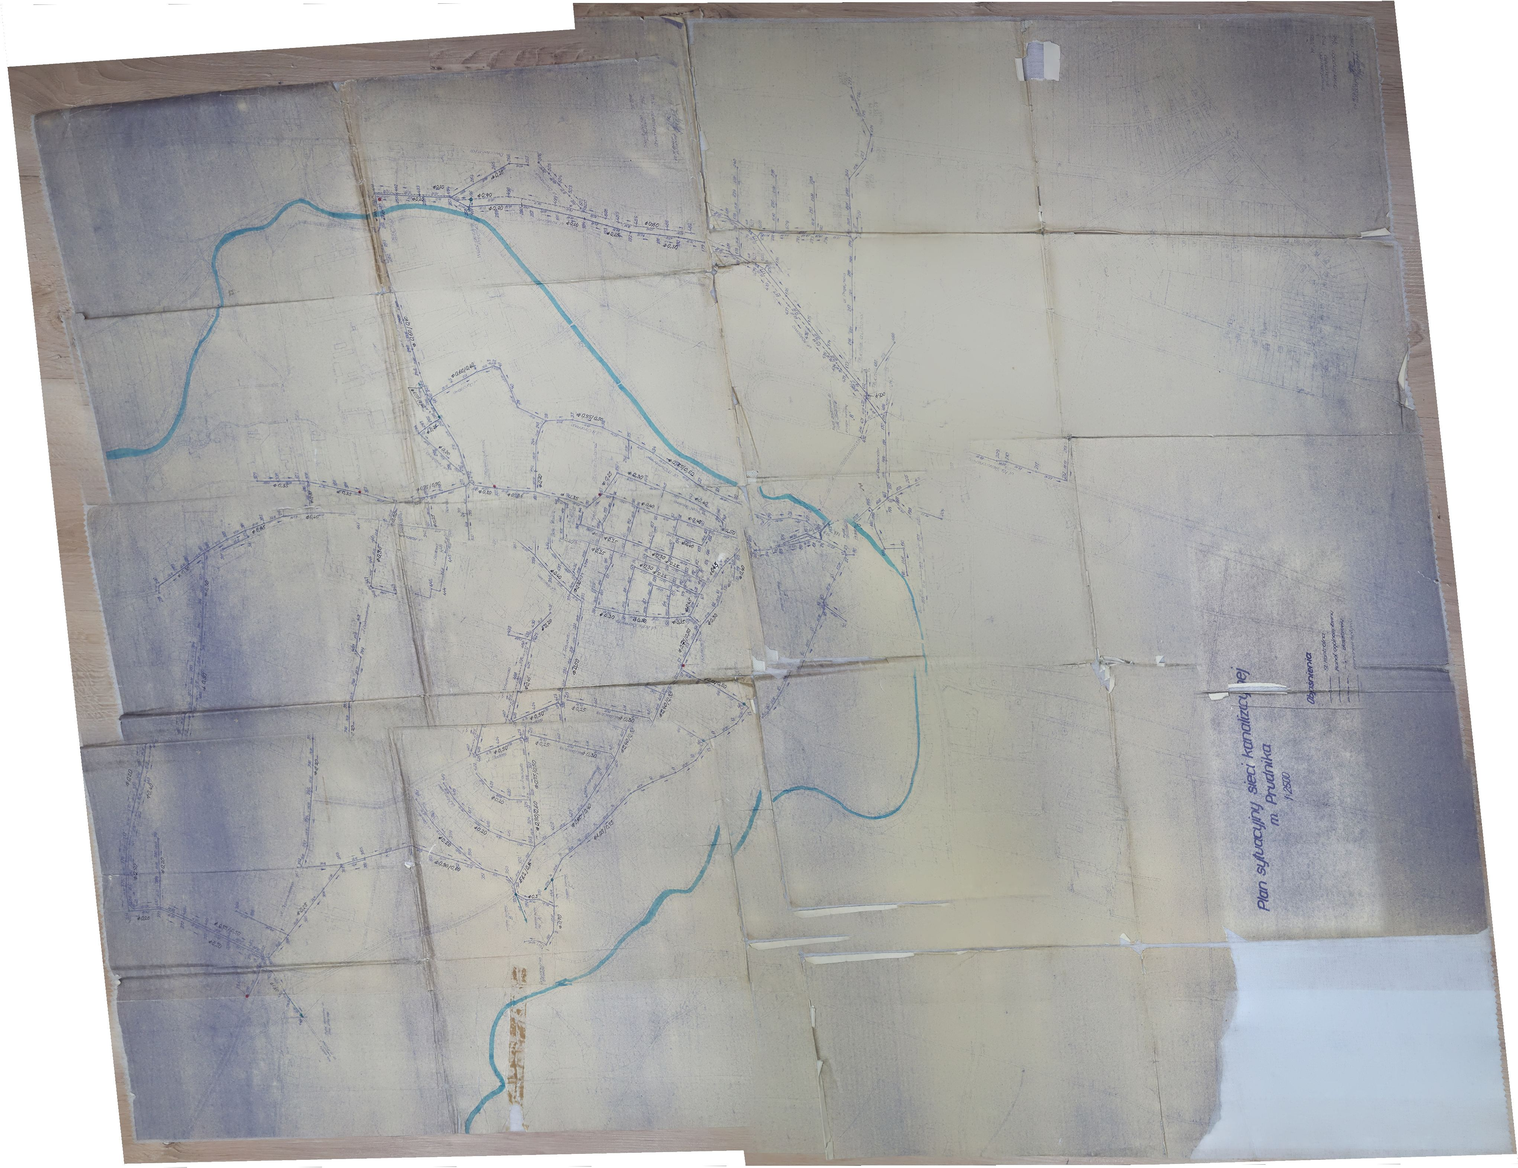
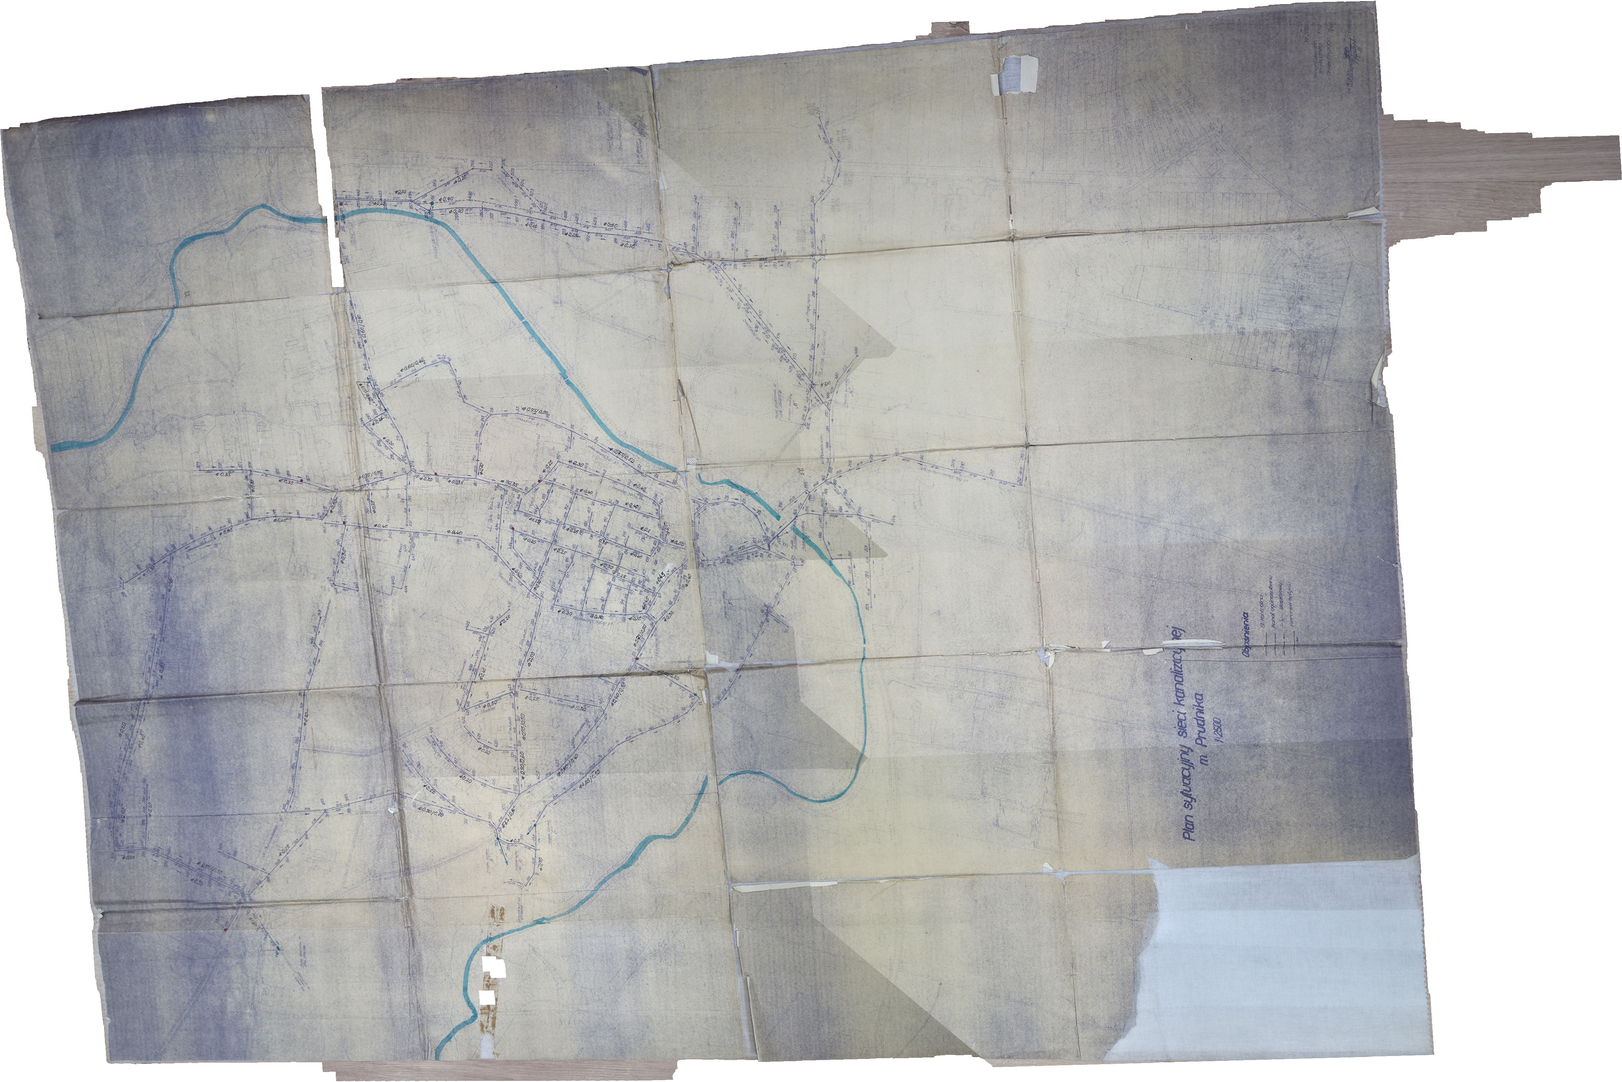
Plan kanalizacji 1959: nowe zszycie z 8 zdjęć i dopasowanie po rzece oraz ulicach
Claude-Session: https://claude.ai/code/session_01CkmqGV7eXLtSUdmKyTxsqu

diff --git a/arkusz.html b/arkusz.html
@@ -154,7 +154,7 @@ input[type=range]{flex:1;accent-color:var(--carmine);min-width:0}
 
 <script src="https://cdnjs.cloudflare.com/ajax/libs/leaflet/1.9.4/leaflet.min.js"></script>
 <script>
-const D = {"sheets": [{"id": "1884", "tag": "1884", "label": "1884", "img": "arkusz1884.jpg", "meta": "Messtischblatt 3301 „Neustadt (in Oberschlesien)”. Pomiar Królewskiej Pruskiej Służby Topograficznej (Landes-Aufnahme) z 1883, wydanie 1884. Długości geograficzne od południka Ferro.", "source": "Instytut Geografii Uniwersytetu Pedagogicznego w Krakowie, skan 400 dpi (Mapster, igrek.amzp.pl/details.php?id=16506)."}, {"id": "1930", "tag": "1930", "label": "1930", "img": "arkusz1930.jpg", "meta": "Na stopce: „Herausgegeben von der Preußischen Landesaufnahme 1884 · Reichsamt für Landesaufnahme · Einzelne Nachträge 1930”, czyli wydanie z 1884 z pojedynczymi uzupełnieniami z 1930, bez nowego pomiaru. Do uzupełnień należą m.in. oczyszczalnia, stacja pomp i koszary.", "source": "Egzemplarz z pieczęcią Technische Hochschule Danzig, Geographisches Seminar. Ten sam stan wydania mają w Mapsterze egzemplarze z Archiwum Map Zachodniej Polski (id 5272) i z Biblioteki Cyfrowej Uniwersytetu Wrocławskiego, sygn. 6541-III.C./3301, datowany przez bibliotekę „1935?” (id 11772860)."}, {"id": "1943", "tag": "1943", "label": "1943", "img": "arkusz1943.jpg", "meta": "Topographische Karte 1:25 000, arkusz 5671 „Neustadt O.S.”, „Ausgabe 1943”, „Nur für den Dienstgebrauch”. Na stopce stan aktualizacji: pomiar 1883 (Borchmann), sprostowany przez Reichsamt für Landesaufnahme w 1937 (Wirth), nazwy według stanu z 1.04.1938, ostatnie uzupełnienia H.V.A. II 1939. To jedyne wydanie z prawdziwą rewizją treści.", "source": "Wydział Geografii i Studiów Regionalnych Uniwersytetu Warszawskiego (Mapster, igrek.amzp.pl/details.php?id=11780596)."}, {"id": "1959", "tag": "1959 (kanalizacja)", "label": "1959 – plan sieci kanalizacyjnej", "img": "kanal1959.jpg", "bounds": [[50.309119877703836, 17.560097391059998], [50.33233010353176, 17.607346482623367]], "meta": "„Plan sytuacyjny sieci kanalizacyjnej m. Prudnika”, 1:2500, z inwentaryzacji sieci w 1959 roku (w rogu opis „Inwent. sieci kan. m. Prudnika” i podpisy, odczyt niepewny). Kolektory z numerami studzienek, średnicami (Φ 0,15–0,75 m) i spadkami, wyloty do rzeki Prudnik, płuczki automatyczne. Ten plan nie jest arkuszem 5671: nałożono go osobno, dopasowując narysowany na nim bieg rzeki do rzeki na arkuszu z 1930 roku (średnio ok. 12 m odchyłki); plan jest sklejony z fotografii, więc lokalnie może się rozjeżdżać o 20–30 m.", "source": "Fotografie planu od Tomka Owsiaka; miejsce przechowywania do uzupełnienia."}, {"id": "1953", "tag": "1953 (USA)", "label": "1953 (wyd. amerykańskie)", "img": "arkusz1953.jpg", "meta": "Kopia Army Map Service (USA), seria M841, skopiowana w 1951 z arkusza z 1943 i wydrukowana w 1953, z dodaną siatką UTM. Treść jak w 1943. Na marginesie dopisek: „The entire area covered by this map is under Polish Administration” (cały obszar tej mapy jest pod administracją polską).", "source": "Brigham Young University Library, Map Collection (pieczęć BYU i sygnatura „Map File G6080 s25 .G4” na skanie); kolekcja „Germany Maps”, contentdm.lib.byu.edu."}], "bounds": [[50.298896690592784, 17.49771192629925], [50.398882956841675, 17.66435089727954]], "show": ["1884", "1930", "1943", "esri"], "start": ["1884", "esri"], "poi": [{"name": "Rynek i stare miasto", "lat": 50.3212, "lon": 17.5803, "zoom": 16, "pair": ["1884", "esri"], "text": "Układ ulic w obrębie dawnych murów niemal się nie zmienił. Zmienia się za to wszystko dookoła."}, {"name": "Zakłady Fränkla", "lat": 50.32715, "lon": 17.5722, "zoom": 16, "pair": ["1884", "1930"], "text": "W 1884 fabryka stoi tylko po wschodniej stronie drogi do Nysy. W 1930 po zachodniej stronie jest już duży nowy kompleks hal."}, {"name": "Koszary", "lat": 50.31636, "lon": 17.56711, "zoom": 15.75, "pair": ["1884", "1930"], "text": "W 1884 w tym miejscu są pola. W 1930 stoi tu cały kompleks koszar (opis „Kas.”) z placami."}, {"name": "Oczyszczalnia ścieków", "lat": 50.3129, "lon": 17.5765, "zoom": 16, "pair": ["1884", "1930"], "text": "W 1884 nic tu nie ma. W 1930 i 1943 jest napis „Kläranl.” dokładnie w miejscu oczyszczalni z planu z 1913 roku, a obok poletka osadowe i stawy."}, {"name": "Stacja pomp z 1894", "lat": 50.31121, "lon": 17.56851, "zoom": 16.5, "pair": ["1884", "1930"], "text": "Na arkuszu z 1930 napis „Wasserhebew.” (stacja pomp) przy drodze na południe, za Heiligbrunnen, dopisany jako uzupełnienie do wydania z 1884. W 1884 jeszcze jej nie ma. Budynek tuż nad napisem to najpewniej sama stacja."}, {"name": "Rzeźnia miejska", "lat": 50.3156, "lon": 17.5886, "zoom": 16.5, "pair": ["1884", "1930"], "text": "W 1930 nad Prudnikiem stoi rzeźnia („Schlachth.”), zgodnie z planem z 1908 roku (nr 38). W 1884 jest tu jeszcze łąka."}, {"name": "Plac ćwiczeń i strzelnice", "lat": 50.3411, "lon": 17.5785, "zoom": 15, "pair": ["1884", "1943"], "plac": true, "text": "Na arkuszu z 1930 napis „Exerzier-Platz” pokrywa się z obrysem placu nr 68 z planu garnizonu. W 1943 obok są strzelnice („Schießstde.”)."}], "sewer": {"img": "kanal1959_siec.png", "bounds": [[50.309119877703836, 17.560097391059998], [50.33233010353176, 17.607346482623367]]}, "plac": [{"pl": "68. Duży plac ćwiczeń (Grosser Exerzierplatz)", "opis": "Obrys odrysowany z wstawki 1:25 000. Pole po przeniesieniu ok. 72.9 ha; dopisek na planie: 794 947 m².", "pts": [[50.344892, 17.57153], [50.34572, 17.581474], [50.34305, 17.583276], [50.341577, 17.580754], [50.341347, 17.582555], [50.334902, 17.582051], [50.335684, 17.573476], [50.340979, 17.573692], [50.34213, 17.572972]]}], "water": {"lines": [{"pl": "Przewód z czerpadła do wieży wodnej", "pts": [[50.322206, 17.583548], [50.321992, 17.583246], [50.321808, 17.58287]]}, {"pl": "Rurociąg z wieży wodnej (nr 21)", "pts": [[50.321808, 17.58287], [50.321983, 17.582368], [50.322143, 17.581911], [50.322361, 17.581623], [50.322578, 17.581336], [50.322419, 17.581267], [50.322459, 17.580998]]}, {"pl": "Rurociąg – północna nitka na zachód (nr 21)", "pts": [[50.322459, 17.580998], [50.322655, 17.580289], [50.322833, 17.579637], [50.322886, 17.579578]]}, {"pl": "Rurociąg – zachodnia część miasta (nr 21)", "pts": [[50.322886, 17.579578], [50.322714, 17.579489], [50.322532, 17.579334], [50.322509, 17.579149], [50.322468, 17.578888], [50.322278, 17.579396], [50.322103, 17.579878], [50.321934, 17.579954], [50.321781, 17.579993], [50.321766, 17.579828], [50.321429, 17.579591], [50.321297, 17.579785]]}, {"pl": "Rurociąg – do rynku od północy (nr 21)", "pts": [[50.322459, 17.580998], [50.321967, 17.580669], [50.321805, 17.580906], [50.321651, 17.581107]]}, {"pl": "Rurociąg – odgałęzienie na wschód (nr 21)", "pts": [[50.321651, 17.581107], [50.321791, 17.581444], [50.321678, 17.581789], [50.321617, 17.581926]]}, {"pl": "Rurociąg – wschodnia strona rynku (nr 21)", "pts": [[50.321651, 17.581107], [50.321539, 17.580928], [50.321395, 17.580697], [50.321214, 17.580632], [50.321071, 17.580873], [50.320985, 17.581198]]}, {"pl": "Rurociąg – na południe, do jatek (nr 21)", "pts": [[50.321071, 17.580873], [50.320993, 17.580741], [50.320628, 17.580523]]}], "points": [{"pl": "Czerpadło (nr 6)", "lat": 50.322206, "lon": 17.583548, "big": true}, {"pl": "Wieża wodna przy arsenale", "lat": 50.321808, "lon": 17.58287, "big": true}, {"pl": "Zdrój miejski (nr 20) – przy szopie sikawek (nr 3)", "lat": 50.322886, "lon": 17.579578, "big": false}, {"pl": "Zdrój miejski (nr 20) – w zachodniej części miasta", "lat": 50.322468, "lon": 17.578888, "big": false}, {"pl": "Zdrój miejski (nr 20) – w zachodniej pierzei rynku", "lat": 50.321781, "lon": 17.579993, "big": false}, {"pl": "Zdrój miejski (nr 20) – w południowo-zachodnim narożniku rynku", "lat": 50.321297, "lon": 17.579785, "big": false}, {"pl": "Zdrój miejski (nr 20) – w północno-wschodnim narożniku rynku", "lat": 50.321651, "lon": 17.581107, "big": false}, {"pl": "Zdrój miejski (nr 20) – w kwartale na wschód od rynku", "lat": 50.321617, "lon": 17.581926, "big": false}, {"pl": "Zdrój miejski (nr 20) – na wschód od rynku", "lat": 50.320985, "lon": 17.581198, "big": false}, {"pl": "Zdrój miejski (nr 20) – przy jatkach (nr 9)", "lat": 50.320628, "lon": 17.580523, "big": false}]}};
+const D = {"sheets": [{"id": "1884", "tag": "1884", "label": "1884", "img": "arkusz1884.jpg", "meta": "Messtischblatt 3301 „Neustadt (in Oberschlesien)”. Pomiar Królewskiej Pruskiej Służby Topograficznej (Landes-Aufnahme) z 1883, wydanie 1884. Długości geograficzne od południka Ferro.", "source": "Instytut Geografii Uniwersytetu Pedagogicznego w Krakowie, skan 400 dpi (Mapster, igrek.amzp.pl/details.php?id=16506)."}, {"id": "1930", "tag": "1930", "label": "1930", "img": "arkusz1930.jpg", "meta": "Na stopce: „Herausgegeben von der Preußischen Landesaufnahme 1884 · Reichsamt für Landesaufnahme · Einzelne Nachträge 1930”, czyli wydanie z 1884 z pojedynczymi uzupełnieniami z 1930, bez nowego pomiaru. Do uzupełnień należą m.in. oczyszczalnia, stacja pomp i koszary.", "source": "Egzemplarz z pieczęcią Technische Hochschule Danzig, Geographisches Seminar. Ten sam stan wydania mają w Mapsterze egzemplarze z Archiwum Map Zachodniej Polski (id 5272) i z Biblioteki Cyfrowej Uniwersytetu Wrocławskiego, sygn. 6541-III.C./3301, datowany przez bibliotekę „1935?” (id 11772860)."}, {"id": "1943", "tag": "1943", "label": "1943", "img": "arkusz1943.jpg", "meta": "Topographische Karte 1:25 000, arkusz 5671 „Neustadt O.S.”, „Ausgabe 1943”, „Nur für den Dienstgebrauch”. Na stopce stan aktualizacji: pomiar 1883 (Borchmann), sprostowany przez Reichsamt für Landesaufnahme w 1937 (Wirth), nazwy według stanu z 1.04.1938, ostatnie uzupełnienia H.V.A. II 1939. To jedyne wydanie z prawdziwą rewizją treści.", "source": "Wydział Geografii i Studiów Regionalnych Uniwersytetu Warszawskiego (Mapster, igrek.amzp.pl/details.php?id=11780596)."}, {"id": "1959", "tag": "1959 (kanalizacja)", "label": "1959 – plan sieci kanalizacyjnej", "img": "kanal1959.jpg", "bounds": [[50.310716359286204, 17.561659631412937], [50.33221928888863, 17.61213735303905]], "meta": "„Plan sytuacyjny sieci kanalizacyjnej m. Prudnika”, 1:2500, z inwentaryzacji sieci w 1959 roku (w rogu opis „Inwent. sieci kan. m. Prudnika” i podpisy, odczyt niepewny). Kolektory z numerami studzienek, średnicami (Φ 0,15–0,75 m) i spadkami, wyloty do rzeki Prudnik, płuczki automatyczne. Plan złożono od nowa z 8 zdjęć (dopasowanie zdjęć do siebie po wspólnych punktach), nałożono po biegu rzeki na arkusz z 1930 roku i poprawiono po skrzyżowaniach ulic na arkuszu z 1943 roku. Dokładność ok. 10–20 m.", "source": "Fotografie planu od Tomka Owsiaka; miejsce przechowywania do uzupełnienia."}, {"id": "1953", "tag": "1953 (USA)", "label": "1953 (wyd. amerykańskie)", "img": "arkusz1953.jpg", "meta": "Kopia Army Map Service (USA), seria M841, skopiowana w 1951 z arkusza z 1943 i wydrukowana w 1953, z dodaną siatką UTM. Treść jak w 1943. Na marginesie dopisek: „The entire area covered by this map is under Polish Administration” (cały obszar tej mapy jest pod administracją polską).", "source": "Brigham Young University Library, Map Collection (pieczęć BYU i sygnatura „Map File G6080 s25 .G4” na skanie); kolekcja „Germany Maps”, contentdm.lib.byu.edu."}], "bounds": [[50.298896690592784, 17.49771192629925], [50.398882956841675, 17.66435089727954]], "show": ["1884", "1930", "1943", "esri"], "start": ["1884", "esri"], "poi": [{"name": "Rynek i stare miasto", "lat": 50.3212, "lon": 17.5803, "zoom": 16, "pair": ["1884", "esri"], "text": "Układ ulic w obrębie dawnych murów niemal się nie zmienił. Zmienia się za to wszystko dookoła."}, {"name": "Zakłady Fränkla", "lat": 50.32715, "lon": 17.5722, "zoom": 16, "pair": ["1884", "1930"], "text": "W 1884 fabryka stoi tylko po wschodniej stronie drogi do Nysy. W 1930 po zachodniej stronie jest już duży nowy kompleks hal."}, {"name": "Koszary", "lat": 50.31636, "lon": 17.56711, "zoom": 15.75, "pair": ["1884", "1930"], "text": "W 1884 w tym miejscu są pola. W 1930 stoi tu cały kompleks koszar (opis „Kas.”) z placami."}, {"name": "Oczyszczalnia ścieków", "lat": 50.3129, "lon": 17.5765, "zoom": 16, "pair": ["1884", "1930"], "text": "W 1884 nic tu nie ma. W 1930 i 1943 jest napis „Kläranl.” dokładnie w miejscu oczyszczalni z planu z 1913 roku, a obok poletka osadowe i stawy."}, {"name": "Stacja pomp z 1894", "lat": 50.31121, "lon": 17.56851, "zoom": 16.5, "pair": ["1884", "1930"], "text": "Na arkuszu z 1930 napis „Wasserhebew.” (stacja pomp) przy drodze na południe, za Heiligbrunnen, dopisany jako uzupełnienie do wydania z 1884. W 1884 jeszcze jej nie ma. Budynek tuż nad napisem to najpewniej sama stacja."}, {"name": "Rzeźnia miejska", "lat": 50.3156, "lon": 17.5886, "zoom": 16.5, "pair": ["1884", "1930"], "text": "W 1930 nad Prudnikiem stoi rzeźnia („Schlachth.”), zgodnie z planem z 1908 roku (nr 38). W 1884 jest tu jeszcze łąka."}, {"name": "Plac ćwiczeń i strzelnice", "lat": 50.3411, "lon": 17.5785, "zoom": 15, "pair": ["1884", "1943"], "plac": true, "text": "Na arkuszu z 1930 napis „Exerzier-Platz” pokrywa się z obrysem placu nr 68 z planu garnizonu. W 1943 obok są strzelnice („Schießstde.”)."}], "sewer": {"img": "kanal1959_siec.png", "bounds": [[50.310716359286204, 17.561659631412937], [50.33221928888863, 17.61213735303905]]}, "plac": [{"pl": "68. Duży plac ćwiczeń (Grosser Exerzierplatz)", "opis": "Obrys odrysowany z wstawki 1:25 000. Pole po przeniesieniu ok. 72.9 ha; dopisek na planie: 794 947 m².", "pts": [[50.344892, 17.57153], [50.34572, 17.581474], [50.34305, 17.583276], [50.341577, 17.580754], [50.341347, 17.582555], [50.334902, 17.582051], [50.335684, 17.573476], [50.340979, 17.573692], [50.34213, 17.572972]]}], "water": {"lines": [{"pl": "Przewód z czerpadła do wieży wodnej", "pts": [[50.322206, 17.583548], [50.321992, 17.583246], [50.321808, 17.58287]]}, {"pl": "Rurociąg z wieży wodnej (nr 21)", "pts": [[50.321808, 17.58287], [50.321983, 17.582368], [50.322143, 17.581911], [50.322361, 17.581623], [50.322578, 17.581336], [50.322419, 17.581267], [50.322459, 17.580998]]}, {"pl": "Rurociąg – północna nitka na zachód (nr 21)", "pts": [[50.322459, 17.580998], [50.322655, 17.580289], [50.322833, 17.579637], [50.322886, 17.579578]]}, {"pl": "Rurociąg – zachodnia część miasta (nr 21)", "pts": [[50.322886, 17.579578], [50.322714, 17.579489], [50.322532, 17.579334], [50.322509, 17.579149], [50.322468, 17.578888], [50.322278, 17.579396], [50.322103, 17.579878], [50.321934, 17.579954], [50.321781, 17.579993], [50.321766, 17.579828], [50.321429, 17.579591], [50.321297, 17.579785]]}, {"pl": "Rurociąg – do rynku od północy (nr 21)", "pts": [[50.322459, 17.580998], [50.321967, 17.580669], [50.321805, 17.580906], [50.321651, 17.581107]]}, {"pl": "Rurociąg – odgałęzienie na wschód (nr 21)", "pts": [[50.321651, 17.581107], [50.321791, 17.581444], [50.321678, 17.581789], [50.321617, 17.581926]]}, {"pl": "Rurociąg – wschodnia strona rynku (nr 21)", "pts": [[50.321651, 17.581107], [50.321539, 17.580928], [50.321395, 17.580697], [50.321214, 17.580632], [50.321071, 17.580873], [50.320985, 17.581198]]}, {"pl": "Rurociąg – na południe, do jatek (nr 21)", "pts": [[50.321071, 17.580873], [50.320993, 17.580741], [50.320628, 17.580523]]}], "points": [{"pl": "Czerpadło (nr 6)", "lat": 50.322206, "lon": 17.583548, "big": true}, {"pl": "Wieża wodna przy arsenale", "lat": 50.321808, "lon": 17.58287, "big": true}, {"pl": "Zdrój miejski (nr 20) – przy szopie sikawek (nr 3)", "lat": 50.322886, "lon": 17.579578, "big": false}, {"pl": "Zdrój miejski (nr 20) – w zachodniej części miasta", "lat": 50.322468, "lon": 17.578888, "big": false}, {"pl": "Zdrój miejski (nr 20) – w zachodniej pierzei rynku", "lat": 50.321781, "lon": 17.579993, "big": false}, {"pl": "Zdrój miejski (nr 20) – w południowo-zachodnim narożniku rynku", "lat": 50.321297, "lon": 17.579785, "big": false}, {"pl": "Zdrój miejski (nr 20) – w północno-wschodnim narożniku rynku", "lat": 50.321651, "lon": 17.581107, "big": false}, {"pl": "Zdrój miejski (nr 20) – w kwartale na wschód od rynku", "lat": 50.321617, "lon": 17.581926, "big": false}, {"pl": "Zdrój miejski (nr 20) – na wschód od rynku", "lat": 50.320985, "lon": 17.581198, "big": false}, {"pl": "Zdrój miejski (nr 20) – przy jatkach (nr 9)", "lat": 50.320628, "lon": 17.580523, "big": false}]}};
 const SHEETS = D.sheets, B = D.bounds;
 const OPTS = [...SHEETS.map(s => ({id:s.id, name:s.label})), {id:"esri", name:"dziś (zdjęcia satelitarne Esri)"}, {id:"orto", name:"dziś (ortofotomapa Geoportalu, wolniej)"}, {id:"osm", name:"dziś (mapa)"}];
 const short = id => id === "orto" || id === "osm" || id === "esri" ? "dziś" : (SHEETS.find(s => s.id === id) || {}).tag || id;

diff --git a/narzedzia/build_arkusz.py b/narzedzia/build_arkusz.py
@@ -17,7 +17,7 @@ sheets=[
  {"id":"1884","tag":"1884","label":"1884","img":"arkusz1884.jpg","meta":"Messtischblatt 3301 „Neustadt (in Oberschlesien)”. Pomiar Królewskiej Pruskiej Służby Topograficznej (Landes-Aufnahme) z 1883, wydanie 1884. Długości geograficzne od południka Ferro.","source":"Instytut Geografii Uniwersytetu Pedagogicznego w Krakowie, skan 400 dpi (Mapster, igrek.amzp.pl/details.php?id=16506)."},
  {"id":"1930","tag":"1930","label":"1930","img":"arkusz1930.jpg","meta":"Na stopce: „Herausgegeben von der Preußischen Landesaufnahme 1884 · Reichsamt für Landesaufnahme · Einzelne Nachträge 1930”, czyli wydanie z 1884 z pojedynczymi uzupełnieniami z 1930, bez nowego pomiaru. Do uzupełnień należą m.in. oczyszczalnia, stacja pomp i koszary.","source":"Egzemplarz z pieczęcią Technische Hochschule Danzig, Geographisches Seminar. Ten sam stan wydania mają w Mapsterze egzemplarze z Archiwum Map Zachodniej Polski (id 5272) i z Biblioteki Cyfrowej Uniwersytetu Wrocławskiego, sygn. 6541-III.C./3301, datowany przez bibliotekę „1935?” (id 11772860)."},
  {"id":"1943","tag":"1943","label":"1943","img":"arkusz1943.jpg","meta":"Topographische Karte 1:25 000, arkusz 5671 „Neustadt O.S.”, „Ausgabe 1943”, „Nur für den Dienstgebrauch”. Na stopce stan aktualizacji: pomiar 1883 (Borchmann), sprostowany przez Reichsamt für Landesaufnahme w 1937 (Wirth), nazwy według stanu z 1.04.1938, ostatnie uzupełnienia H.V.A. II 1939. To jedyne wydanie z prawdziwą rewizją treści.","source":"Wydział Geografii i Studiów Regionalnych Uniwersytetu Warszawskiego (Mapster, igrek.amzp.pl/details.php?id=11780596)."},
- {"id":"1959","tag":"1959 (kanalizacja)","label":"1959 – plan sieci kanalizacyjnej","img":"kanal1959.jpg","bounds":K59['bounds'],"meta":"„Plan sytuacyjny sieci kanalizacyjnej m. Prudnika”, 1:2500, z inwentaryzacji sieci w 1959 roku (w rogu opis „Inwent. sieci kan. m. Prudnika” i podpisy, odczyt niepewny). Kolektory z numerami studzienek, średnicami (Φ 0,15–0,75 m) i spadkami, wyloty do rzeki Prudnik, płuczki automatyczne. Ten plan nie jest arkuszem 5671: nałożono go osobno, dopasowując narysowany na nim bieg rzeki do rzeki na arkuszu z 1930 roku (średnio ok. 12 m odchyłki); plan jest sklejony z fotografii, więc lokalnie może się rozjeżdżać o 20–30 m.","source":"Fotografie planu od Tomka Owsiaka; miejsce przechowywania do uzupełnienia."},
+ {"id":"1959","tag":"1959 (kanalizacja)","label":"1959 – plan sieci kanalizacyjnej","img":"kanal1959.jpg","bounds":K59['bounds'],"meta":"„Plan sytuacyjny sieci kanalizacyjnej m. Prudnika”, 1:2500, z inwentaryzacji sieci w 1959 roku (w rogu opis „Inwent. sieci kan. m. Prudnika” i podpisy, odczyt niepewny). Kolektory z numerami studzienek, średnicami (Φ 0,15–0,75 m) i spadkami, wyloty do rzeki Prudnik, płuczki automatyczne. Plan złożono od nowa z 8 zdjęć (dopasowanie zdjęć do siebie po wspólnych punktach), nałożono po biegu rzeki na arkusz z 1930 roku i poprawiono po skrzyżowaniach ulic na arkuszu z 1943 roku. Dokładność ok. 10–20 m.","source":"Fotografie planu od Tomka Owsiaka; miejsce przechowywania do uzupełnienia."},
  {"id":"1953","tag":"1953 (USA)","label":"1953 (wyd. amerykańskie)","img":"arkusz1953.jpg","meta":"Kopia Army Map Service (USA), seria M841, skopiowana w 1951 z arkusza z 1943 i wydrukowana w 1953, z dodaną siatką UTM. Treść jak w 1943. Na marginesie dopisek: „The entire area covered by this map is under Polish Administration” (cały obszar tej mapy jest pod administracją polską).","source":"Brigham Young University Library, Map Collection (pieczęć BYU i sygnatura „Map File G6080 s25 .G4” na skanie); kolekcja „Germany Maps”, contentdm.lib.byu.edu."}]
 poi=[
  {"name":"Rynek i stare miasto","lat":50.3212,"lon":17.5803,"zoom":16,"pair":["1884","esri"],"text":"Układ ulic w obrębie dawnych murów niemal się nie zmienił. Zmienia się za to wszystko dookoła."},

diff --git a/README.md b/README.md
@@ -357,7 +357,7 @@ Pełna lista skanów arkusza: [Mapster, arkusz 5671](http://igrek.amzp.pl/result
 
 *Plan sytuacyjny sieci kanalizacyjnej m. Prudnika*, 1:2500, z inwentaryzacji sieci w 1959 roku. Na planie są kolektory z numerami studzienek, średnicami (Φ 0,15–0,75 m) i spadkami, wyloty do rzeki Prudnik i płuczki automatyczne.
 
-- Dopasowanie: plan nie ma siatki współrzędnych, więc nałożono go, dopasowując narysowany na nim bieg rzeki Prudnik do rzeki na arkuszu 5671 z 1930 roku (przekształcenie afiniczne, średnia odchyłka na rzece ok. 12 m). Plan jest sklejony z kilku fotografii, więc lokalnie, zwłaszcza przy szwach, może się rozjeżdżać o 20–30 m.
+- Dopasowanie: sklejka planu przygotowana wcześniej miała przesunięcia na szwach (np. rzeka urywała się przy Bramie Dolnej o ok. 50 m), więc plan złożono od nowa z 8 zdjęć: zdjęcia dopasowano do siebie po tysiącach wspólnych punktów (średni błąd zszycia kilka metrów). Gotowy plan nałożono po biegu rzeki na arkusz z 1930 roku i poprawiono po skrzyżowaniach ulic na arkuszu z 1943 roku. Dokładność ok. 10–20 m.
 - Na stronie arkusza 5671 plan jest do wyboru w porównaniu (*1959 – plan sieci kanalizacyjnej*), a sama sieć jako warstwa *Sieć kanalizacyjna z 1959 roku*, którą można nałożyć na dowolne wydanie arkusza albo na zdjęcia satelitarne.
 - Pliki: `kanal1959.jpg` (plan przeliczony do odwzorowania mapy), `kanal1959_siec.png` (wyodrębniona sieć i rzeka, przezroczyste tło), `dane/kanal1959.json` (zasięg).
 - Źródło: fotografie planu od Tomka Owsiaka; miejsce przechowywania do uzupełnienia.
